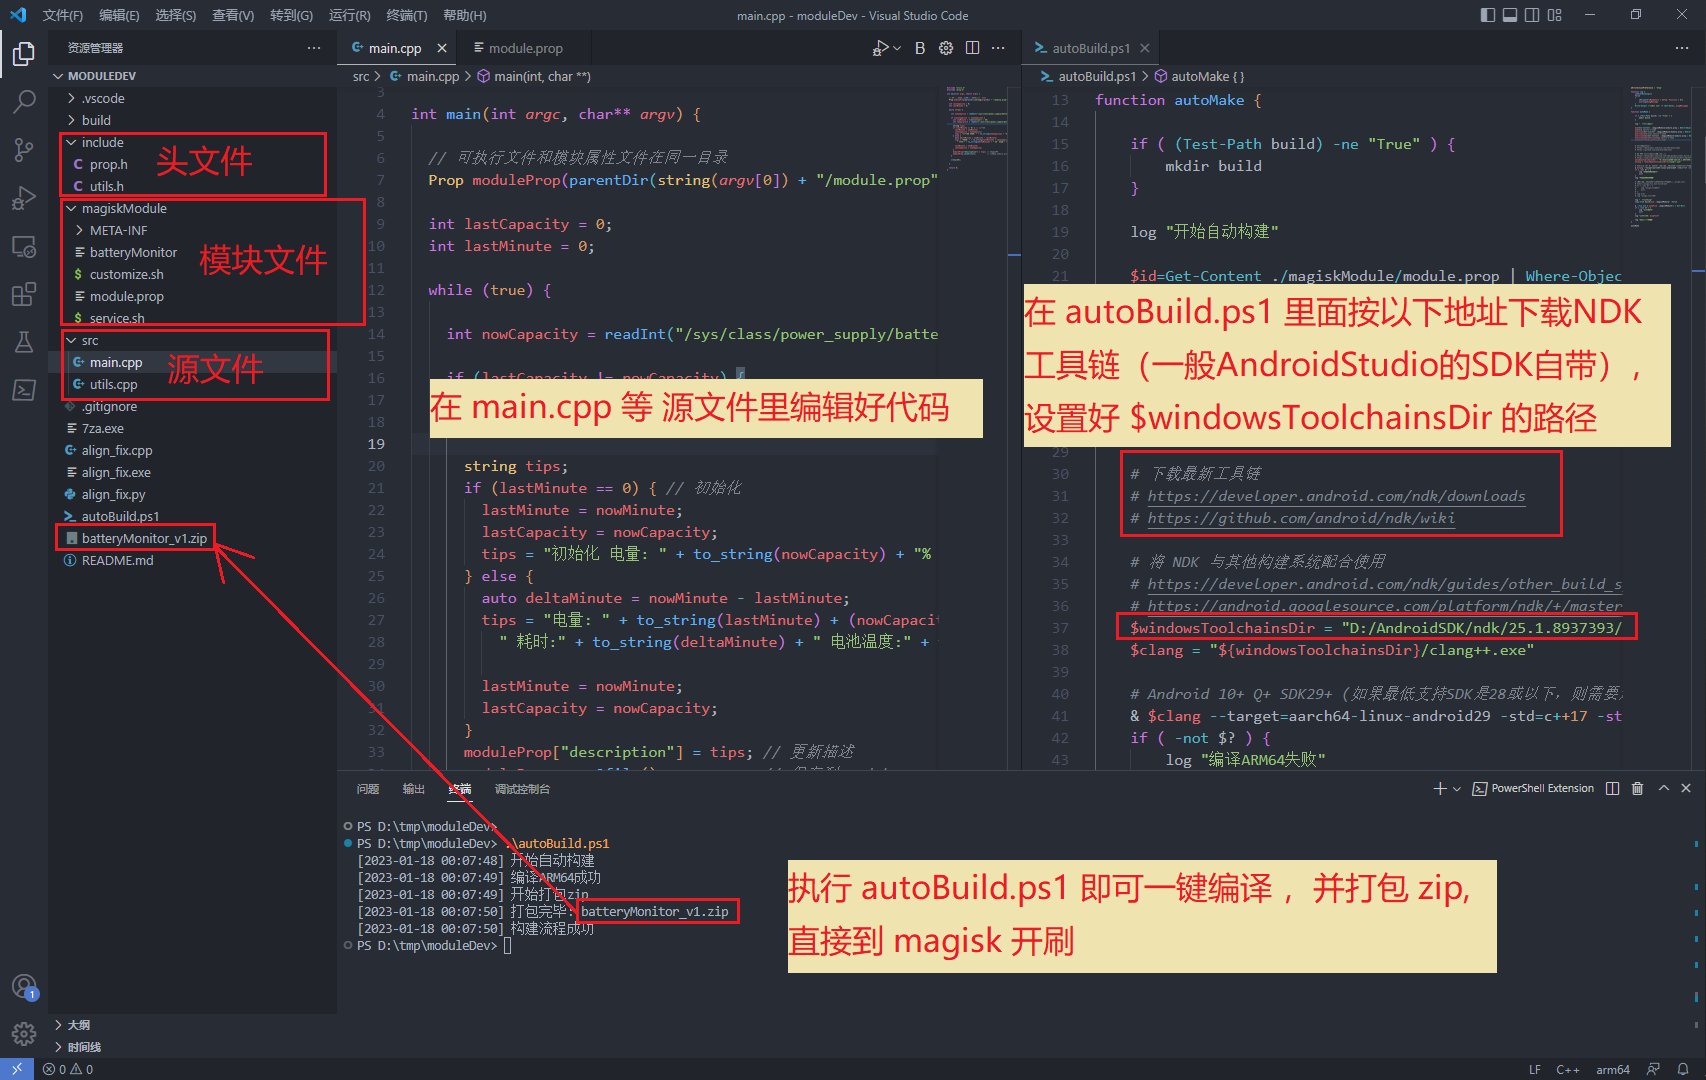
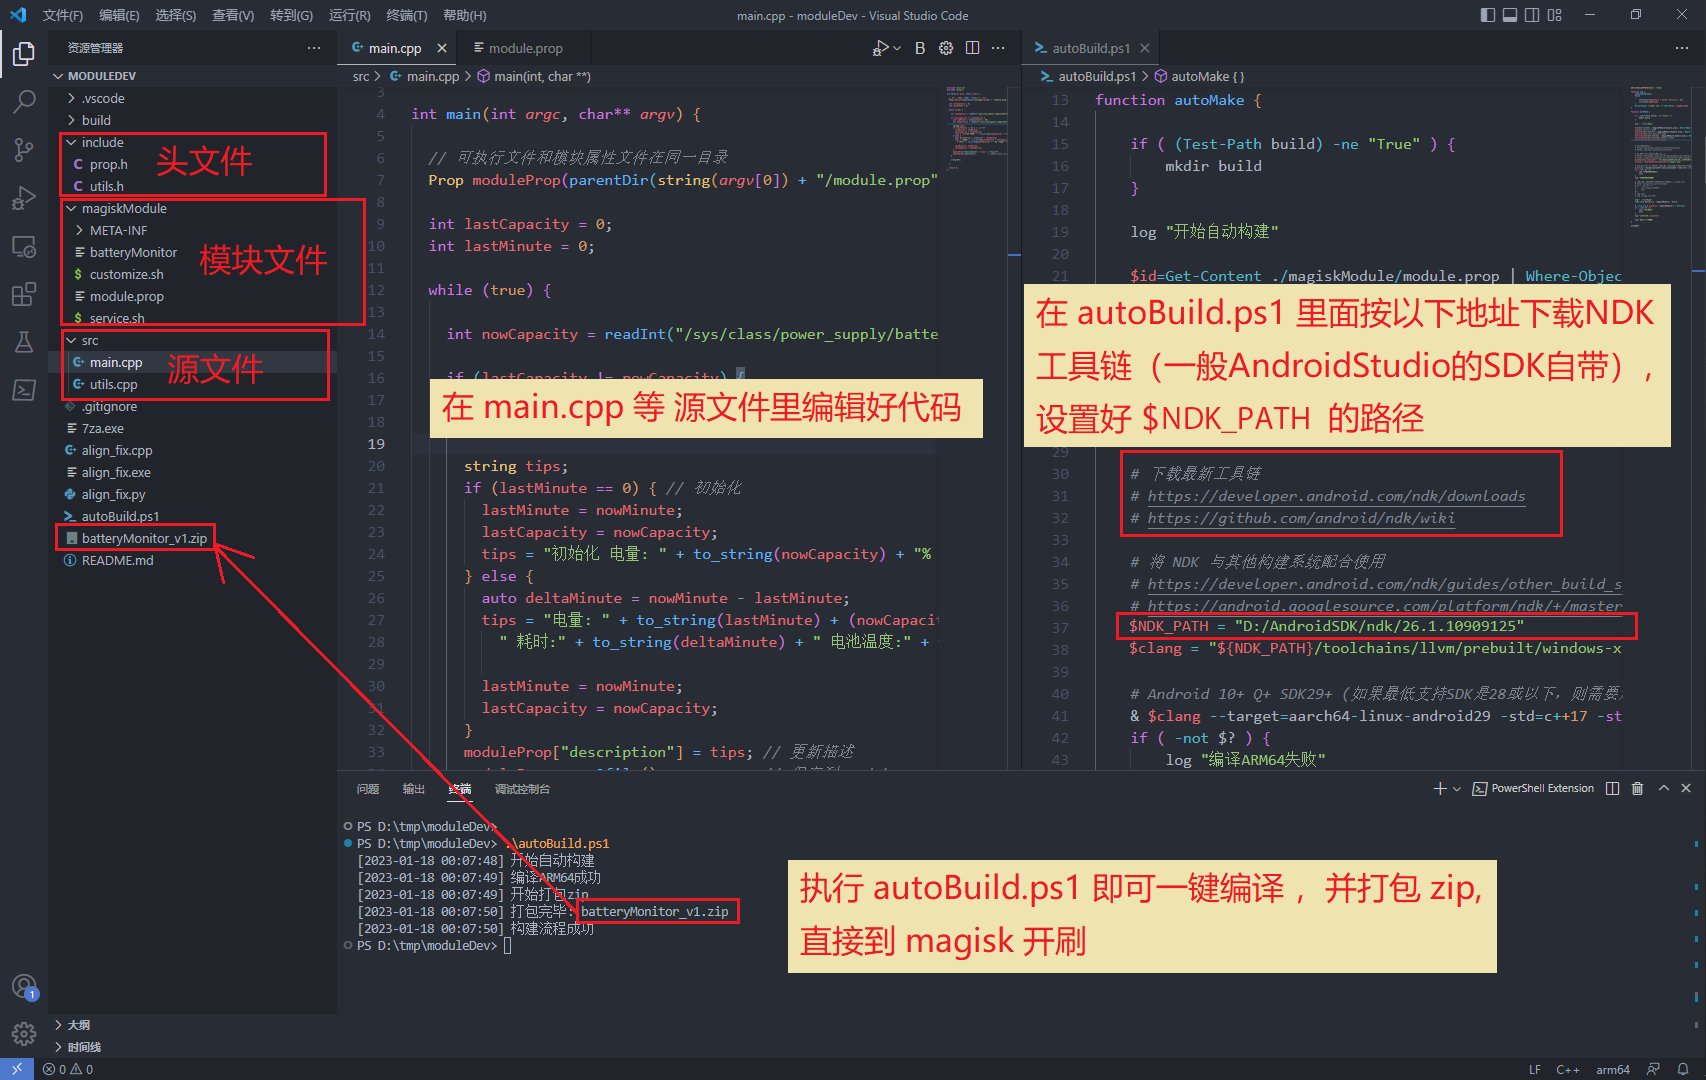
微调细节

diff --git a/src/main.cpp b/src/main.cpp
@@ -24,8 +24,9 @@ int main(int argc, char** argv) {
         tips = "初始化 电量: " + to_string(nowCapacity) + "%  电池温度: " + to_string(temperature / 10) + "℃";
       } else {
         auto deltaMinute = nowMinute - lastMinute;
+        string timeStr = deltaMinute < 60 ? (to_string(deltaMinute) + "分") : (to_string(deltaMinute / 60) + "时" + to_string(deltaMinute % 60) + "分");
         tips = "电量: " + to_string(lastCapacity) + "%" + (nowCapacity > lastCapacity ? "充到" : "用到") +
-          to_string(nowCapacity) + "% 耗时:" + to_string(deltaMinute) + "分  电池温度:" + to_string(temperature / 10) + "℃";
+          to_string(nowCapacity) + "% 耗时:" + timeStr + "  电池温度:" + to_string(temperature / 10) + "℃";
 
         lastMinute = nowMinute;
         lastCapacity = nowCapacity;

diff --git a/README.md b/README.md
@@ -10,7 +10,7 @@
 
 1. 如果你已安装`Android Studio`，其SDK目录下一般含有NDK工具链，否则需要单独下载 [NDK工具链](https://developer.android.com/ndk/downloads) 并解压，路径最好不要包含中文。
 
-1. 在 `build.ps1` 和 `buildOnly.ps1` 脚本中给 `$windowsToolchainsDir` 设置 NDK工具链路径。
+1. 在 `build.ps1` 和 `buildOnly.ps1` 脚本中给 `$NDK_PATH` 设置 NDK工具链路径。
 
 1. 在 `.vscode/c_cpp_properties.json` 文件的 `includePath` 里设置 `NDK头文件` 路径，助于 vsCode IntelliSense 智能提示。
 
@@ -20,7 +20,7 @@
 
 1. 执行 `build.ps1` 一键编译并自动打包zip, 可以直接到Magisk刷入。
 
-1. 执行 `buildOnly.ps1` 则只编译，编译的可执行文件将输出到 `build/`。
+1. 执行 `buildOnly.ps1` 则只编译，不打包成zip，编译的可执行文件将输出到 `build/`。
 
 1. `build.ps1` 已设置为默认`启动调试`脚本，在 vsCode 下按 `F5` 即可一键执行。
 
